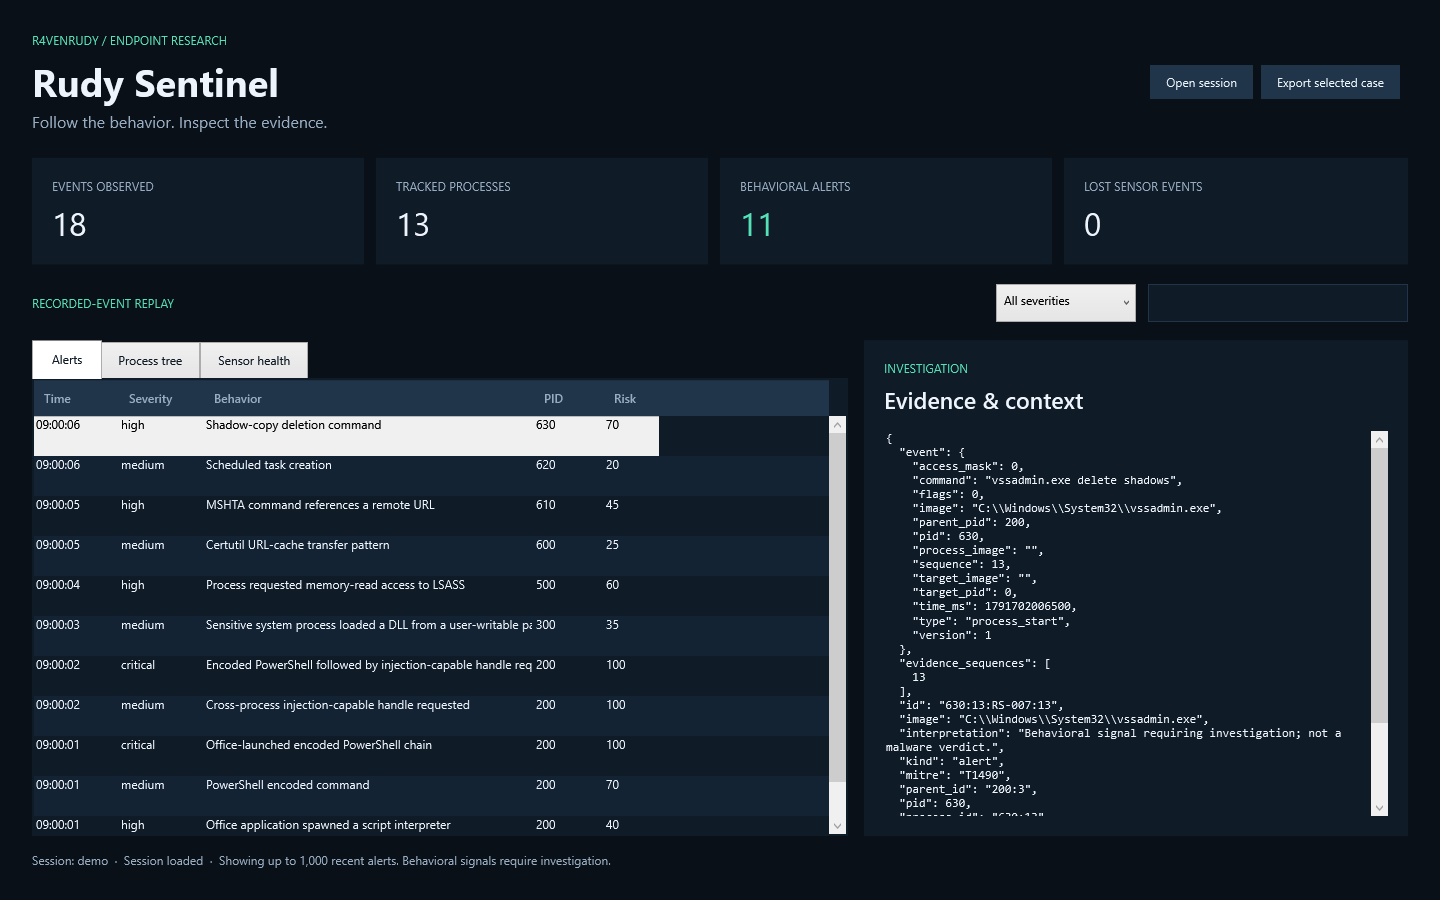
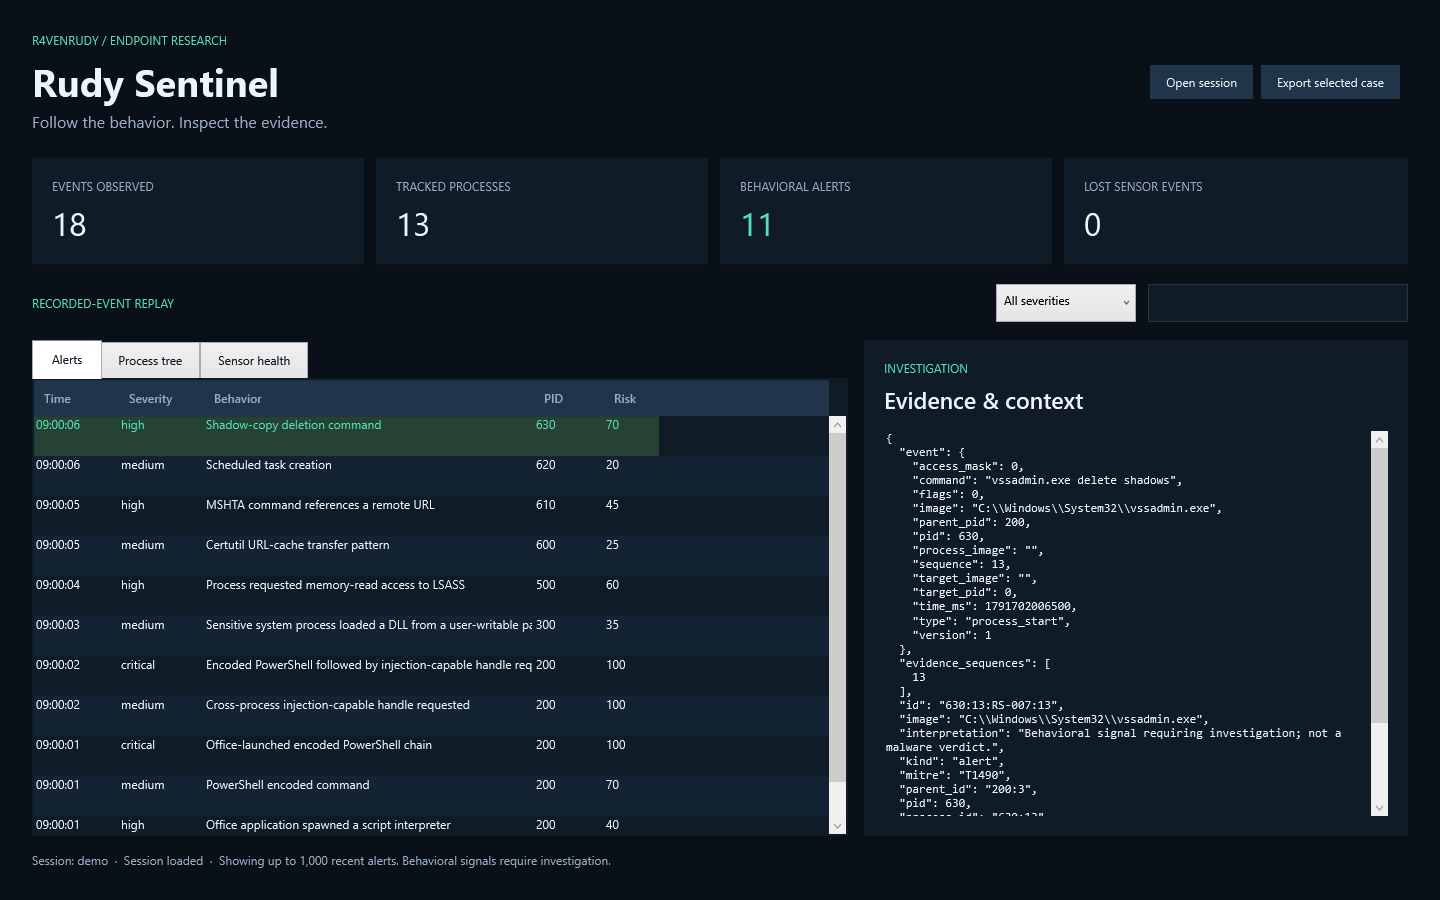
Fix kernel header isolation and validate Unicode paths, process identity and console rendering

Changed region(s): [[0.0, 0.4356, 0.4688, 0.5289]]

diff --git a/console/App.xaml b/console/App.xaml
@@ -7,7 +7,7 @@
     <Style TargetType="ComboBox"><Setter Property="Padding" Value="8"/><Setter Property="MinWidth" Value="140"/></Style>
     <Style TargetType="DataGrid"><Setter Property="Background" Value="#101B28"/><Setter Property="Foreground" Value="#EDF4FC"/><Setter Property="RowBackground" Value="#101B28"/><Setter Property="AlternatingRowBackground" Value="#142333"/><Setter Property="BorderThickness" Value="0"/><Setter Property="GridLinesVisibility" Value="None"/><Setter Property="RowHeight" Value="40"/><Setter Property="HeadersVisibility" Value="Column"/><Setter Property="IsReadOnly" Value="True"/><Setter Property="AutoGenerateColumns" Value="False"/><Setter Property="CanUserAddRows" Value="False"/><Setter Property="CanUserDeleteRows" Value="False"/><Setter Property="SelectionMode" Value="Single"/></Style>
     <Style TargetType="DataGridColumnHeader"><Setter Property="Background" Value="#20354A"/><Setter Property="Foreground" Value="#97ACC1"/><Setter Property="Padding" Value="10"/><Setter Property="FontWeight" Value="SemiBold"/></Style>
-    <Style TargetType="DataGridCell"><Setter Property="Padding" Value="8"/><Setter Property="BorderThickness" Value="0"/></Style>
+    <Style TargetType="DataGridCell"><Setter Property="Padding" Value="8"/><Setter Property="BorderThickness" Value="0"/><Style.Triggers><Trigger Property="IsSelected" Value="True"><Setter Property="Background" Value="#254234"/><Setter Property="Foreground" Value="#55E0B6"/></Trigger></Style.Triggers></Style>
     <Style TargetType="TabItem"><Setter Property="Padding" Value="18,10"/><Setter Property="Foreground" Value="#101B28"/></Style>
     <Style TargetType="TreeViewItem"><Setter Property="Foreground" Value="#EDF4FC"/><Setter Property="Padding" Value="5"/><Setter Property="IsExpanded" Value="True"/></Style>
   </Application.Resources>

diff --git a/agent/engine.cpp b/agent/engine.cpp
@@ -53,8 +53,10 @@ Engine::Engine(Json config, std::size_t capacity) : config_(std::move(config)), 
         auto id = rule.at("id").get<std::string>();
         if (id.empty() || !ids.insert(id).second || !rule.at("title").is_string() ||
             !rule.at("mitre").is_string() || !rule.at("severity").is_string()) throw std::runtime_error("invalid or duplicate rule id");
+        if (!rule.at("score").is_number_integer()) throw std::runtime_error("rule score must be an integer");
         int score = rule.at("score").get<int>();
         if (score < 1 || score > 100) throw std::runtime_error("invalid rule score");
+        if (rule["severity"]!="medium" && rule["severity"]!="high" && rule["severity"]!="critical") throw std::runtime_error("invalid rule severity");
         for (auto it = rule.begin(); it != rule.end(); ++it) if (!fields.contains(it.key())) throw std::runtime_error("unknown rule field: " + it.key());
         if (rule.contains("sequence")) {
             if (!rule["sequence"].is_array() || rule["sequence"].size() != 2) throw std::runtime_error("sequence requires exactly two stages");
@@ -91,7 +93,9 @@ Process& Engine::ensure(const Event& e) {
         if (active_.contains(e.parent) && e.parent != e.pid) p.parent_id = active_.at(e.parent);
         active_[e.pid] = p.id; order_.push_back(p.id); processes_[p.id] = std::move(p);
     }
-    return processes_.at(active_.at(e.pid));
+    auto& result=processes_.at(active_.at(e.pid));
+    if (result.image=="[unobserved process]" && !e.process_image.empty()) result.image=e.process_image;
+    return result;
 }
 static bool terms(const Json& r, const char* key, const std::string& text, bool exact = false, bool all = false) {
     if (!r.contains(key)) return true;
@@ -113,7 +117,7 @@ bool Engine::matches(const Json& rule, const Event& e, const Process& p) const {
     std::string parent, target;
     if (processes_.contains(p.parent_id)) parent = basename(processes_.at(p.parent_id).image);
     if (active_.contains(e.target)) target = basename(processes_.at(active_.at(e.target)).image);
-    else target = basename(e.target_image);
+    if (target.empty() || target=="[unobserved process]") target = basename(e.target_image);
     if (!terms(rule,"image_names",basename(p.image),true) || !terms(rule,"parent_names",parent,true) ||
         !terms(rule,"target_names",target,true) || !terms(rule,"command_any",lower(e.command)) ||
         !terms(rule,"command_all",lower(e.command),false,true) || !terms(rule,"path_any",lower(e.image))) return false;

diff --git a/tests/engine_tests.cpp b/tests/engine_tests.cpp
@@ -58,6 +58,20 @@ int main(int argc,char** argv) {
     check(expired.snapshot()["processes"][0]["risk"]==0,"inactive process risk expiry");
     Event exit; exit.sequence=4; exit.pid=901; exit.type="process_exit"; exit.time_ms=1000000; expired.consume(exit);
     check(expired.snapshot()["processes"][1]["active"]==false,"process exit");
+    Engine parents(rules);
+    parents.consume(start(1,1,"winword.exe")); parents.consume(start(2,2,"child.exe","",1));
+    parents.consume(start(3,1,"notepad.exe"));
+    check(parents.snapshot()["processes"][1]["parent_id"]=="1:1","parent generation survives PID reuse");
+    const std::vector<std::pair<Event,const char*>> positive{
+        {start(1,1,"mshta.exe","mshta https://example.invalid/demo"),"RS-003"},
+        {start(1,1,"rundll32.exe","rundll32 javascript:demo"),"RS-004"},
+        {start(1,1,"certutil.exe","certutil -urlcache https://example.invalid/demo"),"RS-005"},
+        {start(1,1,"schtasks.exe","schtasks /create"),"RS-006"},
+        {start(1,1,"vssadmin.exe","vssadmin delete shadows"),"RS-007"}
+    };
+    for(const auto& [event,rule]:positive) { Engine test(rules); check(has(test.consume(event),rule),"rule positive"); }
+    bad_rules=rules; bad_rules["rules"][0]["severity"]="typo"; rejects([&]{Engine invalid(bad_rules);},"invalid severity");
+    bad_rules=rules; bad_rules["rules"][0]["score"]=1.5; rejects([&]{Engine invalid(bad_rules);},"fractional score");
     std::cout<<checks<<" C++ detection and state checks passed\n"; return 0;
  } catch(const std::exception& e) { std::cerr<<"Engine test: "<<e.what()<<'\n'; return 1; }
 }

diff --git a/sensor/driver.c b/sensor/driver.c
@@ -10,7 +10,7 @@ static UNICODE_STRING RsLinkName = RTL_CONSTANT_STRING(L"\\DosDevices\\RudySenti
 static RS_QUEUE RsQueue;
 static KSPIN_LOCK RsLock;
 static NPAGED_LOOKASIDE_LIST RsLookaside;
-static uint64_t RsAllocationFailures;
+static RS_U64 RsAllocationFailures;
 static PVOID RsObRegistration;
 static BOOLEAN RsProcessRegistered, RsImageRegistered, RsLinkCreated;
 
@@ -18,7 +18,7 @@ DRIVER_INITIALIZE DriverEntry;
 DRIVER_UNLOAD RsUnload;
 DRIVER_DISPATCH RsDispatch;
 
-static RS_EVENT* RsNewEvent(uint32_t type, HANDLE pid) {
+static RS_EVENT* RsNewEvent(RS_U32 type, HANDLE pid) {
     RS_EVENT* event = ExAllocateFromNPagedLookasideList(&RsLookaside);
     LARGE_INTEGER time;
     if (!event) {
@@ -31,11 +31,11 @@ static RS_EVENT* RsNewEvent(uint32_t type, HANDLE pid) {
     RtlZeroMemory(event, sizeof(*event));
     event->Size = sizeof(*event); event->Version = RS_VERSION;
     event->Type = type; event->ProcessId = HandleToULong(pid);
-    KeQuerySystemTimePrecise(&time); event->Time100ns = (uint64_t)time.QuadPart;
+    KeQuerySystemTimePrecise(&time); event->Time100ns = (RS_U64)time.QuadPart;
     return event;
 }
-static void RsCopyText(RS_EVENT* event, uint16_t* dest, uint32_t capacity,
-                       PCUNICODE_STRING source, uint32_t flag) {
+static void RsCopyText(RS_EVENT* event, RS_U16* dest, RS_U32 capacity,
+                       PCUNICODE_STRING source, RS_U32 flag) {
     SIZE_T chars;
     if (!source || !source->Buffer) return;
     chars = source->Length / sizeof(WCHAR);

diff --git a/agent/collector.cpp b/agent/collector.cpp
@@ -7,6 +7,7 @@
 #define WIN32_LEAN_AND_MEAN
 #define NOMINMAX
 #include <windows.h>
+#include <tlhelp32.h>
 #endif
 namespace rs {
 #ifdef _WIN32
@@ -35,10 +36,17 @@ static std::string utf8(const std::uint16_t* value, std::size_t capacity) {
 }
 static std::string process_path(std::uint32_t pid) {
     Handle handle(OpenProcess(PROCESS_QUERY_LIMITED_INFORMATION,FALSE,pid));
-    if (!handle.value) return {};
     WCHAR buffer[32768]; DWORD chars = 32768;
-    if (!QueryFullProcessImageNameW(handle.value,0,buffer,&chars)) return {};
-    return utf8(reinterpret_cast<const std::uint16_t*>(buffer),chars);
+    if (handle.value && QueryFullProcessImageNameW(handle.value,0,buffer,&chars))
+        return utf8(reinterpret_cast<const std::uint16_t*>(buffer),chars);
+    /* Protected processes can deny a query handle; enumeration provides only a name. */
+    Handle snapshot(CreateToolhelp32Snapshot(TH32CS_SNAPPROCESS,0));
+    if (snapshot.value==INVALID_HANDLE_VALUE) return {};
+    PROCESSENTRY32W entry{}; entry.dwSize=sizeof(entry);
+    if (Process32FirstW(snapshot.value,&entry)) do {
+        if (entry.th32ProcessID==pid) return utf8(reinterpret_cast<const std::uint16_t*>(entry.szExeFile),MAX_PATH);
+    } while (Process32NextW(snapshot.value,&entry));
+    return {};
 }
 void collect(std::atomic_bool& stop, const EventSink& sink, const HealthSink& health) {
     Handle device(CreateFileW(L"\\\\.\\RudySentinel",GENERIC_READ,0,nullptr,OPEN_EXISTING,0,nullptr));

diff --git a/shared/protocol.h b/shared/protocol.h
@@ -1,6 +1,10 @@
 #ifndef RUDY_SENTINEL_PROTOCOL_H
 #define RUDY_SENTINEL_PROTOCOL_H
-#include <stdint.h>
+/* Windows x64 and the tested portable targets use these exact widths.
+   Keep user-mode CRT headers out of the kernel translation units. */
+typedef unsigned short RS_U16;
+typedef unsigned int RS_U32;
+typedef unsigned long long RS_U64;
 
 #define RS_VERSION 1u
 #define RS_CAPACITY 1024u
@@ -20,18 +24,18 @@
 
 #pragma pack(push, 8)
 typedef struct RS_EVENT {
-    uint32_t Size, Version, Type, Flags;
-    uint64_t Sequence, Time100ns;
-    uint32_t ProcessId, ParentId, TargetId, AccessMask;
-    uint16_t Image[RS_PATH_CHARS];
-    uint16_t Command[RS_COMMAND_CHARS];
+    RS_U32 Size, Version, Type, Flags;
+    RS_U64 Sequence, Time100ns;
+    RS_U32 ProcessId, ParentId, TargetId, AccessMask;
+    RS_U16 Image[RS_PATH_CHARS];
+    RS_U16 Command[RS_COMMAND_CHARS];
 } RS_EVENT;
 
-typedef struct RS_REQUEST { uint32_t Size, Version, MaxEvents, Reserved; } RS_REQUEST;
+typedef struct RS_REQUEST { RS_U32 Size, Version, MaxEvents, Reserved; } RS_REQUEST;
 typedef struct RS_BATCH {
-    uint32_t Size, Version, Count, Reserved;
-    uint64_t Produced, Dropped, AllocationFailures;
-    uint32_t Pending, Capacity;
+    RS_U32 Size, Version, Count, Reserved;
+    RS_U64 Produced, Dropped, AllocationFailures;
+    RS_U32 Pending, Capacity;
 } RS_BATCH;
 #pragma pack(pop)
 #endif

diff --git a/shared/queue.h b/shared/queue.h
@@ -4,10 +4,10 @@
 /* Caller owns storage and synchronization. Also compiled by portable C tests. */
 typedef struct RS_QUEUE {
     RS_EVENT* Events;
-    uint32_t Head, Count, Capacity;
-    uint64_t Produced, Dropped;
+    RS_U32 Head, Count, Capacity;
+    RS_U64 Produced, Dropped;
 } RS_QUEUE;
-void RsQueueInit(RS_QUEUE* queue, RS_EVENT* storage, uint32_t capacity);
+void RsQueueInit(RS_QUEUE* queue, RS_EVENT* storage, RS_U32 capacity);
 int RsQueuePush(RS_QUEUE* queue, const RS_EVENT* event);
 int RsQueuePop(RS_QUEUE* queue, RS_EVENT* event);
 #endif

diff --git a/tests/queue_tests.c b/tests/queue_tests.c
@@ -4,7 +4,7 @@
 #define CHECK(x) do { if (!(x)) { fprintf(stderr,"queue check failed at line %d\n",__LINE__); return 1; } } while(0)
 int main(void) {
     RS_EVENT storage[7], event={0}, output;
-    RS_QUEUE q; unsigned i; uint64_t expected[7], head=0, count=0, produced=0, dropped=0;
+    RS_QUEUE q; unsigned i; RS_U64 expected[7], head=0, count=0, produced=0, dropped=0;
     CHECK(sizeof(RS_EVENT)==1592 && sizeof(RS_BATCH)==48 && sizeof(RS_REQUEST)==16);
     RsQueueInit(&q,storage,7); CHECK(!RsQueuePop(&q,&output));
     srand(41);

diff --git a/shared/queue.c b/shared/queue.c
@@ -1,10 +1,10 @@
 #include "queue.h"
-void RsQueueInit(RS_QUEUE* q, RS_EVENT* storage, uint32_t capacity) {
+void RsQueueInit(RS_QUEUE* q, RS_EVENT* storage, RS_U32 capacity) {
     q->Events = storage; q->Head = q->Count = 0;
     q->Capacity = capacity; q->Produced = q->Dropped = 0;
 }
 int RsQueuePush(RS_QUEUE* q, const RS_EVENT* event) {
-    uint32_t index;
+    RS_U32 index;
     ++q->Produced;
     if (q->Count == q->Capacity) { ++q->Dropped; return 0; }
     index = (q->Head + q->Count) % q->Capacity;
